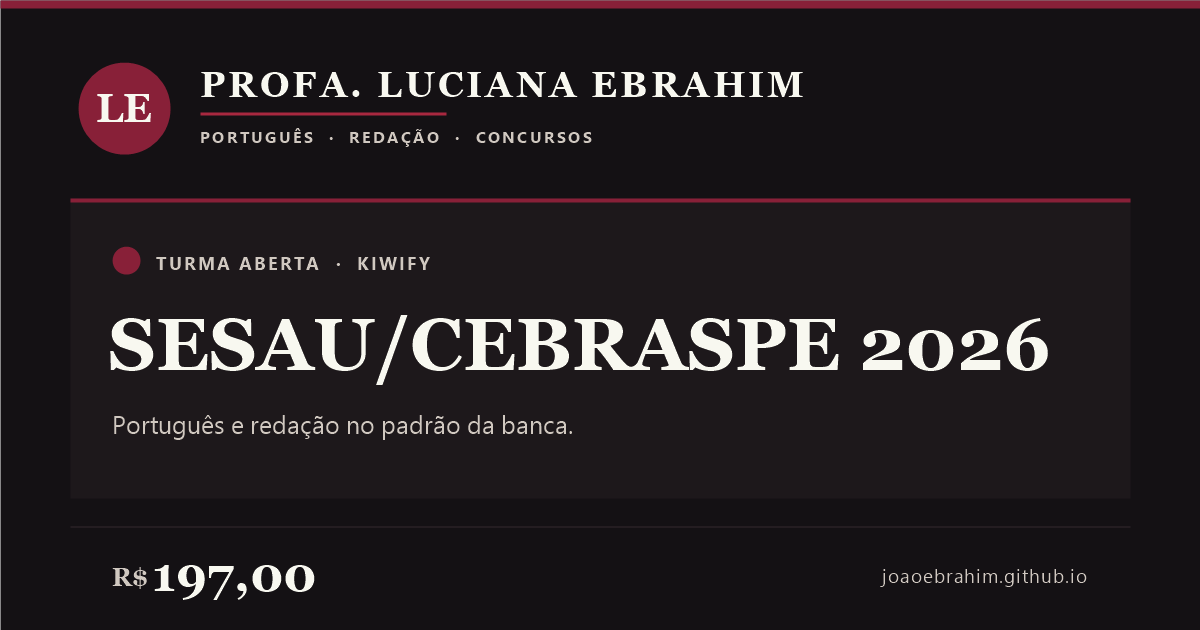
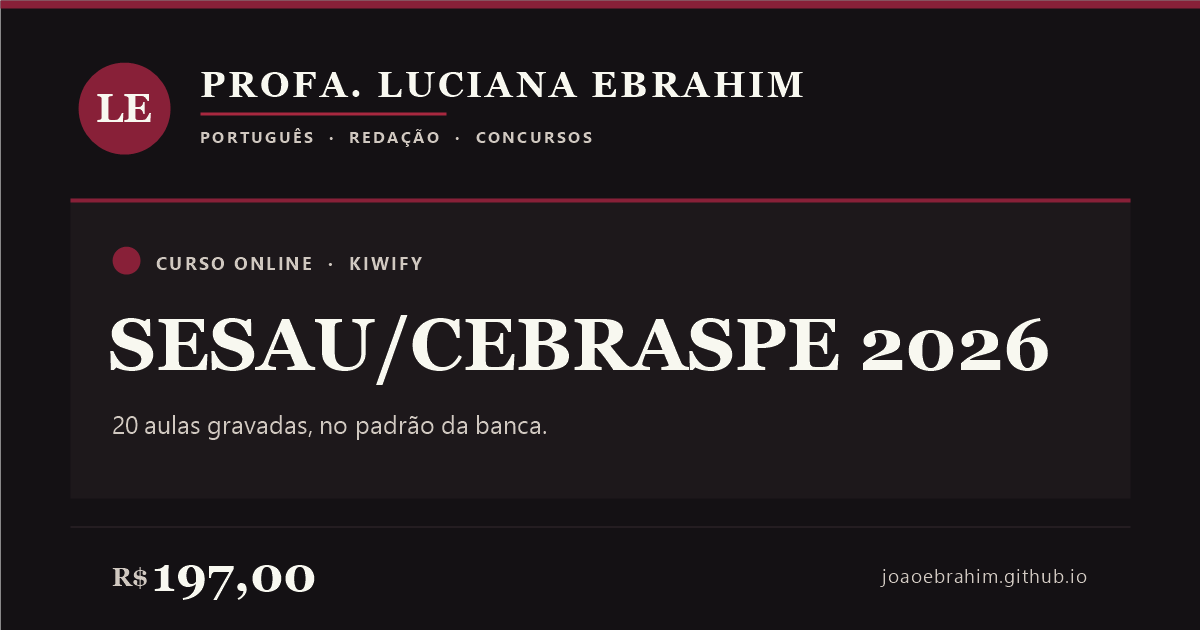
feat: diz o que o curso inclui e corrige escassez que não existe
O cartão informava órgão, banca, turma e preço, mas nunca o que o aluno
recebe. Quem chegava do Instagram decidia R$ 197 sem saber quantas aulas
existiam nem por quanto tempo teria acesso.

Adiciona a lista do que está incluso, com dados confirmados pelo João:
20 aulas (10 de português e 10 de redação), 100% online no ritmo de 2 por
semana, gravadas e com acesso permanente.

Corrige três textos que prometiam uma urgência inexistente. O curso fica
gravado para sempre e pode ser comprado a qualquer momento — não há vaga
limitada nem janela de inscrição:

- CTA "Garantir minha vaga" -> "Quero começar agora". Não existe vaga a
  garantir num produto digital sem limite de alunos.
- Etiqueta "Turma aberta" -> "Curso online". Não há turma que abre e fecha.
- Faixa de dados: "Turma 2026" -> "Aulas 20". O ano já está no título, e o
  número de aulas informa muito mais na hora da decisão.

Ajusta junto a mensagem pronta do WhatsApp, a meta description e a og.png,
que repetiam "turma".

Sem garantia e sem parcelamento na página: o João confirmou que a oferta não
tem nenhum dos dois.

Verificado em 320px e 375px: sem overflow, nada passa da borda, "CEBRASPE"
mantém 8,7px de folga da divisória.

Changed region(s): [[0.0925, 0.6635, 0.4933, 0.6937], [0.1542, 0.3921, 0.37, 0.4524]]

diff --git a/index.html b/index.html
@@ -5,7 +5,7 @@
   <meta name="viewport" content="width=device-width, initial-scale=1.0">
 
   <title>Profa. Luciana Ebrahim · Português, Redação e Concursos</title>
-  <meta name="description" content="Português e redação para concursos. Turma SESAU/CEBRASPE 2026 aberta, e-books na área de membros, aulas gratuitas no YouTube e contato direto no WhatsApp.">
+  <meta name="description" content="Curso online SESAU/CEBRASPE 2026: 10 aulas de português e 10 de redação, gravadas, com foco na banca. Aulas gratuitas no YouTube e contato direto no WhatsApp.">
   <link rel="canonical" href="https://joaoebrahim.github.io/">
 
   <!-- Preview em Instagram / WhatsApp / Telegram.
@@ -206,6 +206,20 @@
     .specs dt { margin-bottom: 2px; }
     /* valor muito comprido quebra a linha em vez de invadir a coluna vizinha */
     .specs dd { font-size: 13px; font-weight: 600; overflow-wrap: break-word; }
+
+    /* O que o aluno leva — responde "o que exatamente eu estou comprando" */
+    .perks { list-style: none; margin-bottom: 18px; }
+    .perks li {
+      display: flex;
+      align-items: flex-start;
+      gap: 10px;
+      font-size: 14px;
+      line-height: 1.45;
+      padding: 7px 0;
+      border-top: 1px solid var(--rule);
+    }
+    .perks li:first-child { border-top: 0; padding-top: 0; }
+    .perks svg { flex-shrink: 0; margin-top: 4px; color: var(--wine-lift); }
 
     .price {
       display: flex;
@@ -420,7 +434,7 @@
     <section class="offer" aria-labelledby="offer-title">
       <p class="offer-tag">
         <span class="bubble is-marked" aria-hidden="true"></span>
-        <span class="eyebrow">Turma aberta · Kiwify</span>
+        <span class="eyebrow">Curso online · Kiwify</span>
       </p>
 
       <h1 class="offer-title" id="offer-title">SESAU/CEBRASPE 2026</h1>
@@ -437,10 +451,25 @@
           <dd>CEBRASPE</dd>
         </div>
         <div>
-          <dt class="eyebrow">Turma</dt>
-          <dd>2026</dd>
+          <dt class="eyebrow">Aulas</dt>
+          <dd>20</dd>
         </div>
       </dl>
+
+      <ul class="perks">
+        <li>
+          <svg width="13" height="13" viewBox="0 0 24 24" fill="none" stroke="currentColor" stroke-width="3" stroke-linecap="round" stroke-linejoin="round" aria-hidden="true"><polyline points="20 6 9 17 4 12"/></svg>
+          10 aulas de português e 10 de redação
+        </li>
+        <li>
+          <svg width="13" height="13" viewBox="0 0 24 24" fill="none" stroke="currentColor" stroke-width="3" stroke-linecap="round" stroke-linejoin="round" aria-hidden="true"><polyline points="20 6 9 17 4 12"/></svg>
+          100% online, no ritmo de 2 aulas por semana
+        </li>
+        <li>
+          <svg width="13" height="13" viewBox="0 0 24 24" fill="none" stroke="currentColor" stroke-width="3" stroke-linecap="round" stroke-linejoin="round" aria-hidden="true"><polyline points="20 6 9 17 4 12"/></svg>
+          Fica gravado: assista quando e quantas vezes quiser
+        </li>
+      </ul>
 
       <p class="price">
         <span class="price-amount"><small>R$</small> 197,00</span>
@@ -448,7 +477,7 @@
       </p>
 
       <a class="cta" href="https://pay.kiwify.com.br/QXO9a83?src=linktree&utm_source=instagram&utm_medium=bio&utm_campaign=sesau-cebraspe-2026" target="_blank" rel="noopener noreferrer" data-track="sesau-cebraspe-2026">
-        Garantir minha vaga
+        Quero começar agora
         <svg width="17" height="17" viewBox="0 0 24 24" fill="none" stroke="currentColor" stroke-width="2.2" stroke-linecap="round" stroke-linejoin="round" aria-hidden="true"><line x1="5" y1="12" x2="19" y2="12"/><polyline points="12 5 19 12 12 19"/></svg>
       </a>
       <small class="reassure">Pagamento seguro pela Kiwify</small>
@@ -477,7 +506,7 @@
     <p class="eyebrow section-label">Onde me encontrar</p>
     <nav class="links" aria-label="Contato e redes">
 
-      <a class="row" href="https://wa.me/5582994003663?text=Ol%C3%A1%2C%20professora%21%20Vim%20pelo%20link%20da%20bio%20e%20quero%20saber%20mais%20sobre%20a%20turma%20SESAU%2FCEBRASPE%202026." target="_blank" rel="noopener noreferrer" data-track="whatsapp">
+      <a class="row" href="https://wa.me/5582994003663?text=Ol%C3%A1%2C%20professora%21%20Vim%20pelo%20link%20da%20bio%20e%20quero%20saber%20mais%20sobre%20o%20curso%20SESAU%2FCEBRASPE%202026." target="_blank" rel="noopener noreferrer" data-track="whatsapp">
         <span class="bubble" aria-hidden="true">A</span>
         <span class="glyph" aria-hidden="true">
           <svg viewBox="0 0 24 24" fill="currentColor"><path d="M17.472 14.382c-.297-.149-1.758-.867-2.03-.967-.273-.099-.471-.148-.67.15-.197.297-.767.966-.94 1.164-.173.199-.347.223-.644.075-.297-.15-1.255-.463-2.39-1.475-.883-.788-1.48-1.761-1.653-2.059-.173-.297-.018-.458.13-.606.134-.133.298-.347.446-.52.149-.174.198-.298.298-.497.099-.198.05-.371-.025-.52-.075-.149-.669-1.612-.916-2.207-.242-.579-.487-.5-.669-.51-.173-.008-.371-.01-.57-.01-.198 0-.52.074-.792.372-.272.297-1.04 1.016-1.04 2.479 0 1.462 1.065 2.875 1.213 3.074.149.198 2.096 3.2 5.077 4.487.709.306 1.262.489 1.694.625.712.227 1.36.195 1.871.118.571-.085 1.758-.719 2.006-1.413.248-.694.248-1.289.173-1.413-.074-.124-.272-.198-.57-.347m-5.421 7.403h-.004a9.87 9.87 0 01-5.031-1.378l-.361-.214-3.741.982.998-3.648-.235-.374a9.86 9.86 0 01-1.51-5.26c.001-5.45 4.436-9.884 9.888-9.884 2.64 0 5.122 1.03 6.988 2.898a9.825 9.825 0 012.893 6.994c-.003 5.45-4.437 9.884-9.885 9.884m8.413-18.297A11.815 11.815 0 0012.05 0C5.495 0 .16 5.335.157 11.892c0 2.096.547 4.142 1.588 5.945L.057 24l6.305-1.654a11.882 11.882 0 005.683 1.448h.005c6.554 0 11.89-5.335 11.893-11.893a11.821 11.821 0 00-3.48-8.413z"/></svg>
